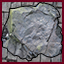
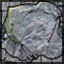
Fixed bug with move selection and pathfinder Updated tile textures

diff --git a/Assets/Scripts/Pathfinding/MoveSelection.cs b/Assets/Scripts/Pathfinding/MoveSelection.cs
@@ -46,7 +46,7 @@ public class MoveSelection : MonoBehaviour {
                 GameObject[] allObjects = GameObject.FindGameObjectsWithTag("Character");
                 foreach (GameObject obj in allObjects)
                 {
-                    if ((int)obj.transform.position.x == (int)transform.position.x + 1 && (int)obj.transform.position.y == (int)transform.position.y - 1)
+                    if ((int)obj.transform.position.x == (int)transform.position.x && (int)obj.transform.position.y == (int)transform.position.y)
                     {
                         //int damageDealt = (int)(Mathf.Clamp(GameObject.Find("Controller").GetComponent<CharacterController>().CurrentControlledCharacter.GetComponent<BaseCharacter>().BaseStrength - obj.GetComponent<BaseCharacter>().BaseArmour, 1.0f, 999.0f));
                         obj.GetComponent<BaseCharacter>().TakeDamage(GameObject.Find("Controller").GetComponent<CharacterController>().CurrentControlledCharacter.GetComponent<BaseCharacter>().GetAttackDamage());

diff --git a/Assets/Scripts/Pathfinding/Pathfinder.cs b/Assets/Scripts/Pathfinding/Pathfinder.cs
@@ -358,9 +358,12 @@ public class Pathfinder : MonoBehaviour
         BaseCharacter CheckCharacter = theLevel.GetCharacterInTile(checkNode.m_pos);
         if (CheckCharacter != null)
         {
-            if (CheckCharacter != this.GetComponent<BaseCharacter>() && Mathf.RoundToInt(checkNode.m_pos.x) != m_Destination.x && Mathf.RoundToInt(checkNode.m_pos.y) != m_Destination.y)
+            int checkx = Mathf.RoundToInt(checkNode.m_pos.x);
+            int checky = Mathf.RoundToInt(checkNode.m_pos.y);
+
+            if (CheckCharacter != this.GetComponent<BaseCharacter>() && (checkx != m_Destination.x || checky != m_Destination.y))
             {
-                //Debug.Log("Node Rejected. (Character on the spot)");
+                Debug.Log("Node Rejected. (Character on the spot)");
                 return false;
             }
         }

diff --git a/Assets/Scripts/EndGameManager.cs b/Assets/Scripts/EndGameManager.cs
@@ -1,0 +1,15 @@
+using UnityEngine;
+using System.Collections;
+
+public class EndGame : MonoBehaviour {
+
+	// Use this for initialization
+	void Start () {
+	
+	}
+	
+	// Update is called once per frame
+	void Update () {
+	
+	}
+}
